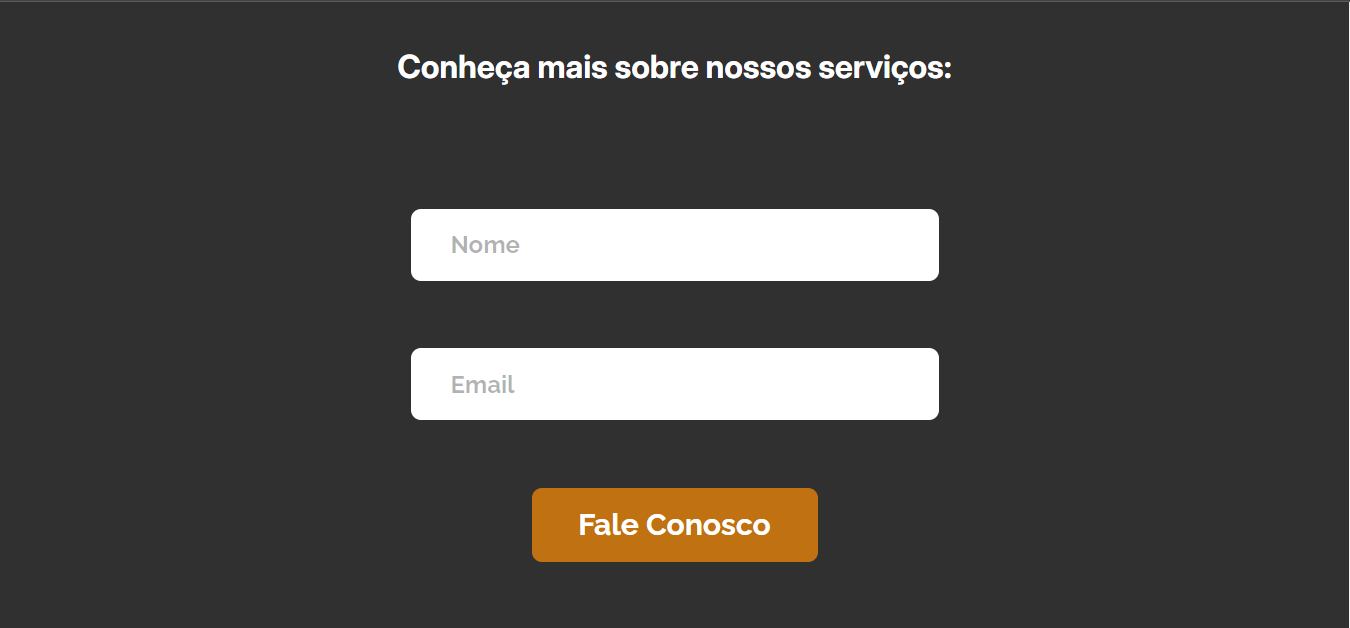
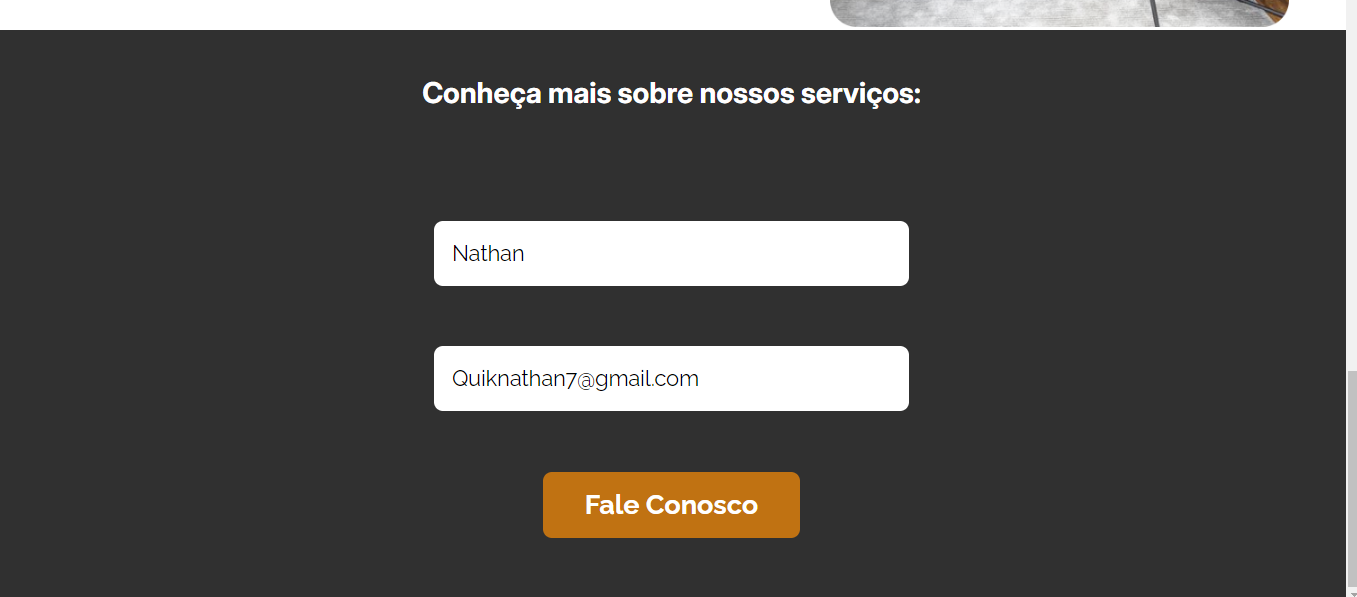
update readmi, add sheet img and change form img

diff --git a/README.MD b/README.MD
@@ -7,11 +7,11 @@ para a capitação de leads, intregado com o **SheetMonkey** junto com **Javascr
 
 As tecnologias usadas nesse projeto.
 
-**HTML**
-**CSS**
-**JAVASCRIPT**
-**SheetMonkey**
-**GoogleSheet**
+- **Html**
+- **Css**
+- **JavaScript**
+- **SheetMonkey**
+- **GoogleSheet**
 
 
 ## Getting started
@@ -20,47 +20,39 @@ As tecnologias usadas nesse projeto.
 
 * Clone o repositório:
    ```bash
-   git clone https://github.com/rasta-slaine/Chat_IA_React.git
-   cd Chat_IA_React
+   git clone https://github.com/rasta-slaine/LandingPage-Arquitetura
+   cd LandingPage-Arquitetura
+   ```
    
-   
-* Instale as dependências
-  ```bash
-   npm install
-
-* To run the project.
-   ```bash
-  - npm run dev
-
 ## Features
 
-As features do aplicativo são:
+As features são:
 
-- **Formmulario**: Captura os leads e insere em uma planilha do googleSheet.
+- **Formulario**: Captura os leads e insere em uma planilha do googleSheet.
 
 ## Link
 [LandinPage]('')
+[GoogleSheet]('https://docs.google.com/spreadsheets/d/1XtS-v2Ux2rE2ot26UaIgBa0GwpmoGU_HLVJ4-YA7zec/edit?gid=0#gid=0')
+
 
 
 ## Overview : )
 
-### 1 - Quando você abrir o App, Você vera a tela principal
+### 1 - Start page
 
-![Homepage image](https://raw.githubusercontent.com/rasta-slaine/Chat_IA_React/main/public/Readmi/image1.png)
+![Start Page](https://raw.githubusercontent.com/rasta-slaine/LandingPage-Arquitetura/main/assets/git/img/page-start.png)
 
-### 2 - Carregamento - a resposta e caregando com o skelleton 
+### 2 - Midle Page
 
-![Loading](https://raw.githubusercontent.com/rasta-slaine/Chat_IA_React/main/public/Readmi/image2.png)
+![Midle Page](https://raw.githubusercontent.com/rasta-slaine/LandingPage-Arquitetura/main/assets/git/img/page-midle.png)
 
-### 3 - E após o loading, Você vera a sua resposta.
+### 3 - Form
 
-![Quest](https://raw.githubusercontent.com/rasta-slaine/Chat_IA_React/main/public/Readmi/image3.png)
+![Form](https://raw.githubusercontent.com/rasta-slaine/LandingPage-Arquitetura/main/assets/git/img/form.png)
 
-### 4 - Os Titulo dinamico - pergunta
+### 4 - Google Sheet
 
-![Title](https://raw.githubusercontent.com/rasta-slaine/Chat_IA_React/main/public/Readmi/image4.png)
-
-
+![sheet](https://raw.githubusercontent.com/rasta-slaine/Chat_IA_React/main/public/Readmi/image4.png)
 
 
 
